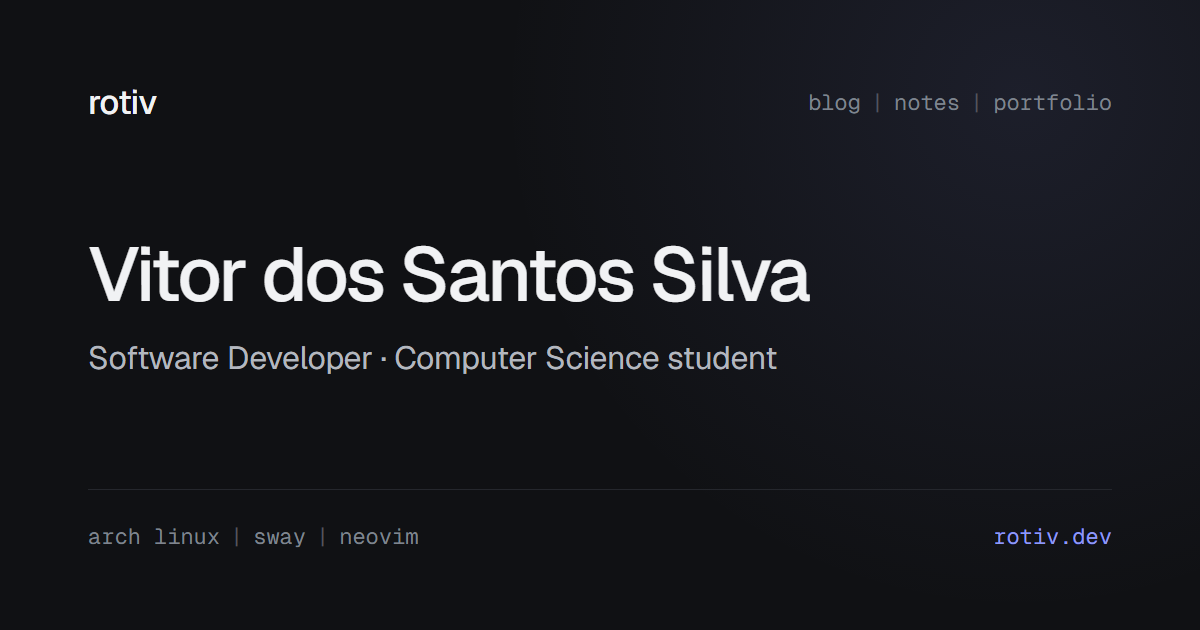
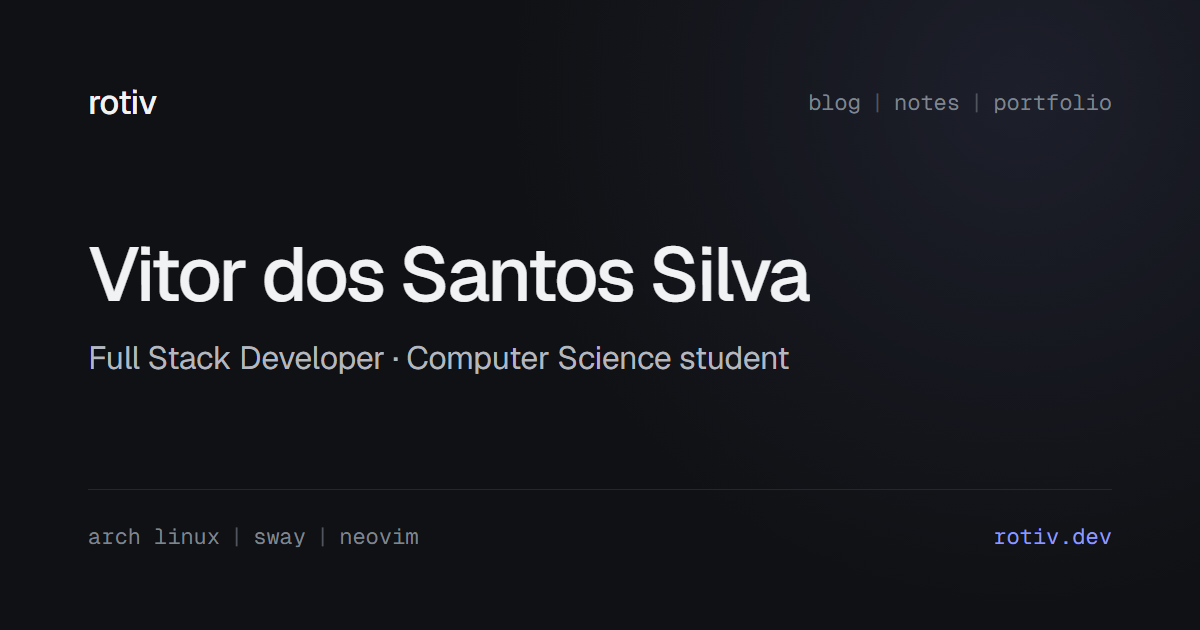
Update age, role and skills; add reading and game facts
- Programming since 12 (about, home bio, CV summary)
- Full Stack Developer role and headline, preview image updated
- Python, Julia and Lua in skills; Ruby listed first
- Home facts: currently reading, game in production

Changed region(s): [[0.0617, 0.5429, 0.6783, 0.6032]]

diff --git a/src/data/cv.ts b/src/data/cv.ts
@@ -39,14 +39,14 @@ export interface Education {
 export const cv = {
   name: 'Vitor dos Santos Silva',
   headline: {
-    en: 'Software Developer · Computer Science student',
-    pt: 'Desenvolvedor de Software · Estudante de Ciência da Computação',
+    en: 'Full Stack Developer · Computer Science student',
+    pt: 'Desenvolvedor Full Stack · Estudante de Ciência da Computação',
   } satisfies Localized,
   location: { en: 'São Paulo, Brazil', pt: 'São Paulo, Brasil' } satisfies Localized,
 
   summary: {
-    en: "Programming since I was 13 and working as a developer since 2019, currently building enterprise management systems with SAPUI5, C# and MongoDB at BR GAAP, while studying Computer Science at UNIP. I like understanding how things work under the hood — that's why I run Arch Linux and spend my days in Neovim. Looking to keep growing as a software engineer on projects that solve real problems.",
-    pt: 'Programo desde os 13 anos e trabalho como desenvolvedor desde 2019, hoje construindo sistemas de gestão empresarial com SAPUI5, C# e MongoDB na BR GAAP, enquanto curso Ciência da Computação na UNIP. Gosto de entender como as coisas funcionam por dentro — por isso uso Arch Linux e passo meus dias no Neovim. Busco continuar crescendo como engenheiro de software em projetos que resolvem problemas reais.',
+    en: "Programming since I was 12 and working as a developer since 2019, currently building enterprise management systems with SAPUI5, C# and MongoDB at BR GAAP, while studying Computer Science at UNIP. I like understanding how things work under the hood — that's why I run Arch Linux and spend my days in Neovim. Looking to keep growing as a software engineer on projects that solve real problems.",
+    pt: 'Programo desde os 12 anos e trabalho como desenvolvedor desde 2019, hoje construindo sistemas de gestão empresarial com SAPUI5, C# e MongoDB na BR GAAP, enquanto curso Ciência da Computação na UNIP. Gosto de entender como as coisas funcionam por dentro — por isso uso Arch Linux e passo meus dias no Neovim. Busco continuar crescendo como engenheiro de software em projetos que resolvem problemas reais.',
   } satisfies Localized,
 
   contact: {
@@ -58,7 +58,7 @@ export const cv = {
 
   experience: [
     {
-      role: { en: 'Software Developer (cooperative member)', pt: 'Desenvolvedor de Software (cooperado)' },
+      role: { en: 'Full Stack Developer (cooperative member)', pt: 'Desenvolvedor Full Stack (cooperado)' },
       company: 'BR GAAP',
       start: '2026-03',
       end: null,
@@ -127,7 +127,7 @@ export const cv = {
   skills: [
     {
       label: { en: 'Languages', pt: 'Linguagens' },
-      items: ['TypeScript', 'JavaScript', 'C#', 'C', 'Ruby'],
+      items: ['Ruby', 'C#', 'C', 'TypeScript', 'JavaScript', 'Python', 'Julia', 'Lua'],
     },
     { label: { en: 'Frameworks & DB', pt: 'Frameworks e BD' }, items: ['SAPUI5', 'MongoDB'] },
     { label: { en: 'Tools', pt: 'Ferramentas' }, items: ['Linux (Arch)', 'Neovim', 'Git'] },

diff --git a/src/data/profile.ts b/src/data/profile.ts
@@ -28,8 +28,8 @@ export const profile = {
   },
 
   bio: {
-    en: `Hi, I'm Vitor — a ${age}-year-old software developer from São Paulo, Brazil. I've been programming since I was 13, and today I build enterprise systems at BR GAAP while studying Computer Science.`,
-    pt: `Oi, eu sou o Vitor — desenvolvedor de software de ${age} anos, de São Paulo. Programo desde os 13 e hoje construo sistemas empresariais na BR GAAP enquanto curso Ciência da Computação.`,
+    en: `Hi, I'm Vitor — a ${age}-year-old software developer from São Paulo, Brazil. I've been programming since I was 12, and today I build enterprise systems at BR GAAP while studying Computer Science.`,
+    pt: `Oi, eu sou o Vitor — desenvolvedor de software de ${age} anos, de São Paulo. Programo desde os 12 e hoje construo sistemas empresariais na BR GAAP enquanto curso Ciência da Computação.`,
   } satisfies Localized,
 
   // Aparecem como "rótulo  valor" em mono. Adicione/remova linhas livremente.
@@ -40,6 +40,11 @@ export const profile = {
     {
       label: { en: 'studying', pt: 'estudando' },
       value: { en: 'computer science', pt: 'ciência da computação' },
+    },
+    { label: { en: 'reading', pt: 'lendo' }, value: { en: 'how linux works', pt: 'how linux works' } },
+    {
+      label: { en: 'making', pt: 'fazendo' },
+      value: { en: 'a game · out jun 2027', pt: 'um jogo · sai em jun/2027' },
     },
     { label: { en: 'based in', pt: 'moro no' }, value: { en: 'brazil', pt: 'brasil' } },
   ] satisfies { label: Localized; value: Localized }[],

diff --git a/src/content/pages/pt/about.md b/src/content/pages/pt/about.md
@@ -9,7 +9,7 @@ O primeiro computador que tivemos foi um Positivo que meu pai comprou, com seus 
 
 Foi mais ou menos aí que descobri o desenvolvimento de jogos, graças àquele pessoal que passava de sala em sala divulgando cursos. Encontrei uma joia chamada RPG Maker VX Ace e passava horas nele e assistindo vídeos sobre. Mas logo me senti limitado a RPGs top-down em pixel art. Eu queria fazer jogos de plataforma, jogos 3D. Achei a Unity, que obviamente não rodava no meu computador. Com meu conhecimento ilimitado da época, nem passou pela cabeça criar uma engine ou usar algo mais leve. Eu provavelmente achava que jogos só podiam ser feitos em engines.
 
-A partir daí dá para imaginar o que veio: comecei a estudar linguagens de programação, e a primeira foi Python. Escrevi minha primeira linha de código aos 10 anos, e foi a sensação mais legal que já senti até hoje. É difícil explicar. Fiquei tão feliz que queria mostrar para o mundo inteiro o meu `print("Hello, World!")`. Me senti um <span class="fx">mago</span>.
+A partir daí dá para imaginar o que veio: comecei a estudar linguagens de programação, e a primeira foi Python. Escrevi minha primeira linha de código aos 12 anos, e foi a sensação mais legal que já senti até hoje. É difícil explicar. Fiquei tão feliz que queria mostrar para o mundo inteiro o meu `print("Hello, World!")`. Me senti um <span class="fx">mago</span>.
 
 Com isso veio o gosto por matemática (pretendo fazer essa faculdade também no futuro) e a vontade de aprender mais. Só que meu computador mal rodava o Chrome. Pesquisei "como deixar o PC mais rápido" e, do nada, achei o Linux. Minha primeira distro foi o Ubuntu, e usei por muito, muito tempo mesmo. Nesse período caí na armadilha do JavaScript e fiquei preso nele por um bom tempo. Só me "livrei" quando troquei de distro e fui direto para o C. Eu queria entender como as coisas funcionam em baixo nível: compilação, assembly, alocação de memória, endereçamento, operações bitwise. Até hoje sou fascinado por essa parte.
 

diff --git a/src/content/pages/en/about.md b/src/content/pages/en/about.md
@@ -9,7 +9,7 @@ Our first computer was a Positivo my dad bought, with a glorious 2 GB of RAM and
 
 That's roughly when I discovered game development, thanks to the people who went from classroom to classroom advertising courses. I found a gem called RPG Maker VX Ace and spent hours in it and watching videos about it. But I soon felt limited to top-down pixel art RPGs. I wanted to make platformers, 3D games. I found Unity, which obviously didn't run on my computer. With my unlimited knowledge at the time, it never crossed my mind to build an engine or use something lighter. I probably thought games could only be made in engines.
 
-You can guess what came next: I started learning programming languages, and the first one was Python. I wrote my first line of code when I was 10, and it was the coolest feeling I've had to this day. It's hard to explain. I was so happy I wanted to show the whole world my `print("Hello, World!")`. I felt like a <span class="fx">wizard</span>.
+You can guess what came next: I started learning programming languages, and the first one was Python. I wrote my first line of code when I was 12, and it was the coolest feeling I've had to this day. It's hard to explain. I was so happy I wanted to show the whole world my `print("Hello, World!")`. I felt like a <span class="fx">wizard</span>.
 
 With that came a taste for math (I plan to get a degree in it too someday) and the urge to learn more. The problem was that my computer could barely run Chrome. I searched "how to make my PC faster" and, out of nowhere, found Linux. My first distro was Ubuntu, and I used it for a long, long time. During that period I fell into the JavaScript trap and stayed stuck there for quite a while. I only "broke free" when I switched distros and went straight to C. I wanted to understand how things work at a low level: compilation, assembly, memory allocation, addressing, bitwise operations. I'm still fascinated by that part.
 

diff --git a/src/content/pages/en/uses.md b/src/content/pages/en/uses.md
@@ -22,4 +22,4 @@ A list of the things I use to work, study and tinker. Inspired by [uses.tech](ht
 ## Development
 
 - **Editor** — Neovim, with just a few plugins
-- **Languages I use the most** — TypeScript, C#, C, Ruby
+- **Languages I use the most** — Ruby, C#, C, TypeScript

diff --git a/src/content/pages/pt/uses.md b/src/content/pages/pt/uses.md
@@ -22,4 +22,4 @@ Uma lista das coisas que uso para trabalhar, estudar e mexer no computador. Insp
 ## Desenvolvimento
 
 - **Editor** — Neovim, com poucos plugins
-- **Linguagens que mais uso** — TypeScript, C#, C, Ruby
+- **Linguagens que mais uso** — Ruby, C#, C, TypeScript
